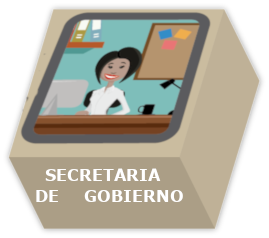
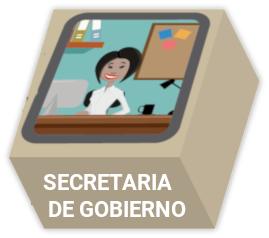
edición de fotos en rubro admin gobierno

Changed region(s): [[0.119, 0.7059, 0.7138, 0.9118]]

diff --git a/views/administracion_view.html b/views/administracion_view.html
@@ -34,11 +34,11 @@
 
 </div>
 
-<section class="padding-section" id="alfombra_desarrollo_economico">
+<section class="padding-section" id="alfombra_admin_gob">
     <div class="cont_titulo">
-        <div id="deco_cuadrado"></div>
+        <div id="ag_cuadrado"></div>
         <div class="alfombra_titulo">
-            <div id="decofont">ADMIN. DE GOBIERNO</div>
+            <div id="agfont">ADMIN. DE GOBIERNO</div>
         </div>
     </div>
     <div class="row" style="background-color:#775120; height: 30px;"></div>
@@ -46,40 +46,41 @@
     <div class="fondoverde">
         <div class="desktop_alfombra">
             <div class="contenido_alfombra">
-                <div class="col-md-3 cajas_edu" style="left: 0;">
+                <div class="col-md-3 cajas_edu" style="left: 95px;">
                     <a href="#!ag-secretariagobierno">
                         <img src="img/ag-secretariagobierno.png" alt="" class="img-responsive">
                     </a>
                 </div>
-                <div class="col-md-3 cajas_edu" style="left: 195px;">
+                <div class="col-md-3 cajas_edu" style="left: 290px;">
                     <a href="#!ag-consejeria">
                         <img src="img/consejeria.png" alt="" class="img-responsive">
                     </a>
                 </div>
-                <div class="col-md-3 cajas_edu" style="left: 390px;">
+                <div class="col-md-3 cajas_edu" style="left: 485px;">
                     <a href="#!ag-gastos">
                         <img src="img/gastos.png" alt="" class="img-responsive">
                     </a>
                 </div>
-                <div class="col-md-3 cajas_edu" style="left: 585px;">
+                <div class="col-md-3 cajas_edu" style="left: 680px;">
                     <a href="#!ag-ejecutivo">
                         <img src="img/ag-ejecutivo.png" alt="" class="img-responsive">
                     </a>
                 </div>
-                <div class="col-md-3 cajas_edu" style="left: 780px;">
-                    <a href="#!ag-hacienda">
-                        <img src="img/hacienda.png" alt="" class="img-responsive">
-                    </a>
-                </div>
+
 
             </div>
             <div class="contenido_alfombra">
-                <div class="col-md-3 cajas_edu" style="left: 0;">
+                <div class="col-md-3 cajas_edu" style="left: 195px;">
                     <a href="#!ag-secretaria-tecnica">
                         <img src="img/secretaria-tecnica.png" alt="" class="img-responsive">
                     </a>
                 </div>
-                <div class="col-md-3 cajas_edu" style="left:195px;">
+                <div class="col-md-3 cajas_edu" style="left: 390px;">
+                    <a href="#!ag-hacienda">
+                        <img src="img/hacienda.png" alt="" class="img-responsive">
+                    </a>
+                </div>
+                <div class="col-md-3 cajas_edu" style="left:585px;">
                     <a href="#!ag-contraluria">
                         <img src="img/contraluria.png" alt="" class="img-responsive">
                     </a>

diff --git a/css/style.css b/css/style.css
@@ -100,6 +100,14 @@ a{
     width: 25px;
     height: 25px;
 }
+#ag_cuadrado{
+    position: absolute;
+    top: -6px;
+    left: -6px;
+    background-color: #4587bf;
+    width: 25px;
+    height: 25px;
+}
 .alfombra_titulo #decofont {
     text-align: center;
     margin-top: 25px;
@@ -116,6 +124,11 @@ a{
     font-size: 32px;
 }
 .alfombra_titulo #desocfont{
+    text-align: center;
+    margin-top: 25px;
+    font-size: 32px;
+}
+.alfombra_titulo #agfont{
     text-align: center;
     margin-top: 25px;
     font-size: 32px;
